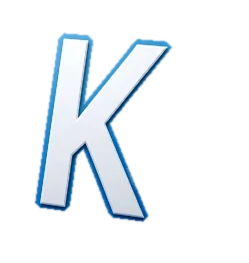
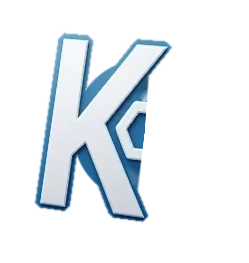
Moderne Startseite: Kachel nach ZIP-Entwurf (Ebenen-Bilder, Glanz, Handy-Intro)
- Neue Grafiken für Kachel, Sockel, K und Zahnräder; Glanz-Ebene darüber
- Seitliche Ebenen als Bilder statt CSS-Maske (Safari), Handy nur jede dritte
- Intro jetzt auch auf Handy/Tablet: flacher Anflug ohne Blur, Icons erst nach
  der Landung und seltener; Start spätestens nach 2,5 s
- Intro-Einzelteile erst nach dem Laden der Seite angefragt (LCP mobil)
- Hell: Bogenfüllung aus, Icons dunkler; weicherer Halo; Suche bis 600 px
  mit 16 px Schrift (kein iOS-Zoom)

Claude-Session: https://claude.ai/code/session_01Wb2bbwhU2Z4abRBUB9Rq9F

diff --git a/src/styles/parts/home-modern.css b/src/styles/parts/home-modern.css
@@ -429,6 +429,15 @@ body:has(#app[data-design='modern']) {
   mask-image: linear-gradient(to bottom, #000 55%, transparent 92%);
 }
 
+/* Hell: Bogen-Fläche ausblenden (nur der Strich bleibt). */
+:root:not([data-theme='dark']) #app[data-design='modern'] .mh-hero-arc .mh-arc-fill {
+  display: none;
+}
+
+:root:not([data-theme='dark']) #app[data-design='modern'] .mh-features svg {
+  color: #2a5bc4;
+}
+
 #app[data-design='modern'] .mh-hero-grid {
   position: relative;
   z-index: 1;
@@ -577,8 +586,8 @@ body:has(#app[data-design='modern']) {
   transform: translateY(-50%);
   background: radial-gradient(
     closest-side,
-    rgba(59, 130, 246, 0.5),
-    rgba(37, 99, 235, 0.16) 60%,
+    rgba(70, 120, 200, 0.3),
+    rgba(50, 90, 170, 0.1) 60%,
     transparent
   );
   pointer-events: none;
@@ -597,12 +606,23 @@ body:has(#app[data-design='modern']) {
   transform: perspective(1000px) rotateY(-18deg) rotateX(4deg);
 }
 
-/* Dicke: gestapelte Ebenen hinter der Front (Farbe/Tiefe je Ebene inline). */
+/* Dicke: gestapelte Bild-Ebenen hinter der Front (Tiefe je Ebene inline). Bilder statt
+   CSS-Masken: Safari zeichnet Masken in 3D nicht zuverlässig. */
 #app[data-design='modern'] .mh-tile-layer {
   position: absolute;
-  inset: 0;
-  -webkit-mask: url('/image/home/tile/tile-mask.png') center / 100% 100% no-repeat;
-  mask: url('/image/home/tile/tile-mask.png') center / 100% 100% no-repeat;
+  left: 0;
+  top: 0;
+  width: 100%;
+  height: 100%;
+  display: block;
+  pointer-events: none;
+}
+
+/* Handy/Tablet: 10 statt 30 Ebenen (jede dritte), gleiche Dicke. */
+@media (max-width: 900px), (pointer: coarse) {
+  #app[data-design='modern'] .mh-tile-layer.is-fine {
+    display: none;
+  }
 }
 
 #app[data-design='modern'] .mh-tile-face {
@@ -624,6 +644,16 @@ body:has(#app[data-design='modern']) {
 #app[data-design='modern'] .mh-tile-part {
   display: none;
   position: absolute;
+}
+
+/* Glanz und Plaketten-Rand über allem. */
+#app[data-design='modern'] .mh-tile-face .mh-tile-gloss {
+  position: absolute;
+  left: 0;
+  top: 0;
+  z-index: 4;
+  width: 100%;
+  pointer-events: none;
 }
 
 #app[data-design='modern'] .mh-tile-base {
@@ -1165,6 +1195,21 @@ body:has(#app[data-design='modern']) {
     width: 100%;
     padding: 0 24px;
     justify-content: center;
+  }
+
+  /* 16px im Suchfeld: iOS zoomt beim Antippen sonst hinein. */
+  #app[data-design='modern'] .mh-search {
+    gap: 10px;
+    padding-left: 14px;
+  }
+
+  #app[data-design='modern'] .mh-search input {
+    font-size: 16px;
+  }
+
+  #app[data-design='modern'] .mh-search button {
+    padding: 0 16px;
+    font-size: 15px;
   }
 }
 

diff --git a/src/styles/parts/home-modern-motion.css b/src/styles/parts/home-modern-motion.css
@@ -1,9 +1,9 @@
 /*
  * Bewegung der modernen Startseite (ergänzt home-modern.css).
  * Alles hier wirkt nur ohne „Bewegung reduzieren". Das Kachel-Intro (Anflug, Zahnrad,
- * aufsteigende Icons, Schweben) zusätzlich nur auf großen Bildschirmen mit JavaScript:
- * MOTION_QUERY in src/content/modernHome.ts muss mit der Media-Query unten übereinstimmen.
- * Handy und Tablet hoch zeigen die fertige Kachel ruhend (Mobil-Score).
+ * aufsteigende Icons, Schweben) zusätzlich nur mit JavaScript: MOTION_QUERY und SMALL_QUERY
+ * in src/content/modernHome.ts müssen den Media-Queries unten entsprechen. Handy und Tablet
+ * bekommen die leichte Fassung (flacher Anflug ohne Überschläge, ohne Blur).
  */
 
 @media (prefers-reduced-motion: no-preference) {
@@ -77,8 +77,8 @@
   }
 }
 
-/* ---------- Kachel-Intro (nur große Bildschirme) ---------- */
-@media (min-width: 901px) and (prefers-reduced-motion: no-preference) and (scripting: enabled) {
+/* ---------- Kachel-Intro ---------- */
+@media (prefers-reduced-motion: no-preference) and (scripting: enabled) {
   /* Bis das Skript startet: Kachel unsichtbar (kein Aufblitzen der fertigen Kachel). */
   #app[data-design='modern'] .mh-tile-wrap:not(.is-intro):not(.is-done) .mh-tile-stage {
     opacity: 0;
@@ -220,6 +220,44 @@
     100% {
       opacity: 0;
       transform: translate(var(--dx), calc(var(--rise) * -1)) rotate(var(--rot)) scale(1);
+    }
+  }
+}
+
+/* Hell: Icons dunkler, damit sie auf hellem Grund sichtbar sind. */
+@media (prefers-reduced-motion: no-preference) and (scripting: enabled) {
+  :root:not([data-theme='dark']) #app[data-design='modern'] .mh-tp {
+    color: #17409e;
+    filter: drop-shadow(0 0 4px rgba(31, 79, 184, 0.35));
+  }
+}
+
+/* Handy/Tablet: sanftes Hereinzoomen ohne 3D-Überschläge und ohne Filter. */
+@media (prefers-reduced-motion: no-preference) and (scripting: enabled) and (max-width: 900px),
+  (prefers-reduced-motion: no-preference) and (scripting: enabled) and (pointer: coarse) {
+  #app[data-design='modern'] .mh-tile-wrap.is-intro .mh-tile-stage {
+    will-change: transform, opacity;
+    animation-name: mh-tile-intro-small, mh-tile-float;
+  }
+
+  #app[data-design='modern'] .mh-tp,
+  :root:not([data-theme='dark']) #app[data-design='modern'] .mh-tp {
+    filter: none;
+  }
+
+  @keyframes mh-tile-intro-small {
+    0% {
+      opacity: 0;
+      transform: translate3d(0, 50px, 0) scale(0.35) rotate(-14deg);
+    }
+
+    15% {
+      opacity: 1;
+    }
+
+    100% {
+      opacity: 1;
+      transform: translate3d(0, 0, 0) scale(1) rotate(0deg);
     }
   }
 }

diff --git a/src/content/modernHome.ts b/src/content/modernHome.ts
@@ -142,11 +142,13 @@ export const MODERN_ICONS: Readonly<Record<string, string>> = {
 };
 
 /**
- * Kachel-Intro nur auf großen Bildschirmen ohne „Bewegung reduzieren" (Handy ruht: Mobil-Score).
- * Muss der Media-Query des Intro-Blocks in home-modern-motion.css entsprechen.
+ * Kachel-Intro ohne „Bewegung reduzieren" und mit Skript, auf allen Bildschirmen. Handy und
+ * Tablet (SMALL_QUERY) bekommen die leichte Fassung: flacher Anflug ohne 3D-Überschläge und
+ * Blur, weniger Ebenen und Icons erst nach der Landung. Muss den Media-Queries in
+ * home-modern-motion.css entsprechen.
  */
-export const MOTION_QUERY =
-  '(min-width: 901px) and (prefers-reduced-motion: no-preference) and (scripting: enabled)';
+export const MOTION_QUERY = '(prefers-reduced-motion: no-preference) and (scripting: enabled)';
+export const SMALL_QUERY = '(max-width: 900px), (pointer: coarse)';
 
 /** Icons, die beim Intro rund um die Kachel aufsteigen (wie im Entwurf). */
 export const PARTICLE_ICONS: readonly string[] = [
@@ -163,21 +165,23 @@ export const PARTICLE_ICONS: readonly string[] = [
 ];
 
 /**
- * Dicke der 3D-Kachel: 30 gestapelte Ebenen (1 px Abstand) hinter der Front, hinten dunkler.
- * Reihenfolge von hinten nach vorn; die vorderste Ebene ist die helle Kante.
+ * Dicke der 3D-Kachel: 30 gestapelte Bild-Ebenen (1 px Abstand) hinter der Front, hinten
+ * dunkler (tile-layer-1…4), vorn die helle Kante (tile-layer-5). Bilder statt CSS-Masken,
+ * weil Safari Masken in 3D nicht zuverlässig zeichnet. `fine`: Zwischenebenen, die Handy
+ * und Tablet weglassen (gleiche Dicke mit 10 statt 30 Ebenen, wie im Entwurf).
+ * Reihenfolge von hinten nach vorn.
  */
-export const TILE_LAYERS: readonly { depth: number; background: string }[] = Array.from(
+export const TILE_LAYERS: readonly { depth: number; src: string; fine: boolean }[] = Array.from(
   { length: 30 },
   (_, n) => {
     const depth = 30 - n;
     const k = depth / 30;
-    const r = (v: number) => Math.round(v * 10) / 10;
+    const n4 = Math.min(3, Math.floor(k * 4 - 1e-9));
     return {
       depth,
-      background:
-        depth <= 1
-          ? '#9fd0ff'
-          : `linear-gradient(160deg,hsl(210 90% ${r(58 - k * 26)}%),hsl(220 95% ${r(34 - k * 18)}%))`,
+      src: `/image/home/tile/tile-layer-${depth <= 1 ? 5 : n4 + 1}.webp`,
+      // Handy: jede dritte Ebene; statt Tiefe 3 die helle Kante (Tiefe 1).
+      fine: depth === 3 || (depth !== 1 && depth % 3 !== 0),
     };
   },
 );

diff --git a/tests/unit/home-layout.spec.ts b/tests/unit/home-layout.spec.ts
@@ -8,7 +8,7 @@ import { join } from 'node:path';
 import { describe, expect, it } from 'vitest';
 import { validateMedia } from '../../server/admin/src/content.js';
 import { normSite } from '../../server/admin/public/model-site';
-import { MOTION_QUERY } from '../../src/content/modernHome';
+import { MOTION_QUERY, SMALL_QUERY } from '../../src/content/modernHome';
 
 const SCOPE = "#app[data-home-layout='compact']";
 
@@ -183,12 +183,18 @@ describe('home-modern-motion.css', () => {
     for (const b of blocks) expect(b.query).toContain('prefers-reduced-motion: no-preference');
   });
 
-  it('Kachel-Intro nur bei MOTION_QUERY (große Bildschirme mit Skript)', () => {
-    const intro = blocks.filter((b) => b.body.includes('mh-tile'));
-    expect(intro.length).toBe(1);
-    expect(`(${intro[0].query.replace(/^\(|\)$/g, '')})`).toBe(MOTION_QUERY);
-    // Außerhalb des Intro-Blocks kein Blur.
-    for (const b of blocks.filter((x) => x !== intro[0])) {
+  it('Kachel-Intro nur bei MOTION_QUERY, leichte Fassung bei SMALL_QUERY', () => {
+    const intro = blocks.filter((b) => b.body.includes('mh-tile') || b.body.includes('mh-tp'));
+    expect(intro.map((b) => `(${b.query.replace(/^\(|\)$/g, '')})`)).toContain(MOTION_QUERY);
+    for (const b of intro) expect(b.query).toContain('scripting: enabled');
+    // Leichte Fassung: genau die Teile von SMALL_QUERY, ohne Blur.
+    const small = intro.filter((b) => b.query.includes('max-width: 900px'));
+    expect(small.length).toBe(1);
+    expect(small[0].query).toContain('pointer: coarse');
+    expect(small[0].body).not.toMatch(/blur\(/);
+    expect(SMALL_QUERY).toBe('(max-width: 900px), (pointer: coarse)');
+    // Ohne Intro-Bezug kein Blur.
+    for (const b of blocks.filter((x) => !intro.includes(x))) {
       expect(b.body).not.toMatch(/filter:\s*blur|backdrop-filter/);
     }
   });

diff --git a/tests/unit/modern-home.spec.ts b/tests/unit/modern-home.spec.ts
@@ -2,6 +2,8 @@
  * Startseite im modernen Design: Hilfen aus src/content/modernHome.ts und die
  * neuen DE/EN-Texte (src/i18n/home-ui.ts, Abschnitt `modern`).
  */
+import { existsSync } from 'node:fs';
+import { join } from 'node:path';
 import { describe, expect, it } from 'vitest';
 import {
   featureIconId,
@@ -58,10 +60,15 @@ describe('Reiter und Icons', () => {
 });
 
 describe('3D-Kachel', () => {
-  it('hat 30 Ebenen von hinten nach vorn, vorne die helle Kante', () => {
+  it('hat 30 Bild-Ebenen von hinten nach vorn, vorne die helle Kante', () => {
     expect(TILE_LAYERS.map((l) => l.depth)).toEqual(Array.from({ length: 30 }, (_, i) => 30 - i));
-    expect(TILE_LAYERS.at(-1)?.background).toBe('#9fd0ff');
-    for (const l of TILE_LAYERS.slice(0, -1)) expect(l.background).toMatch(/^linear-gradient\(/);
+    expect(TILE_LAYERS.at(-1)?.src).toBe('/image/home/tile/tile-layer-5.webp');
+    expect(TILE_LAYERS[0].src).toBe('/image/home/tile/tile-layer-4.webp');
+    for (const l of TILE_LAYERS) expect(existsSync(join('public', l.src)), l.src).toBe(true);
+    // Handy: jede dritte Ebene und die Kante (10 Ebenen, gleiche Dicke).
+    expect(TILE_LAYERS.filter((l) => !l.fine).map((l) => l.depth)).toEqual([
+      30, 27, 24, 21, 18, 15, 12, 9, 6, 1,
+    ]);
   });
   it('aufsteigende Icons existieren im Sprite', () => {
     for (const id of PARTICLE_ICONS) expect(MODERN_ICONS).toHaveProperty(id);
